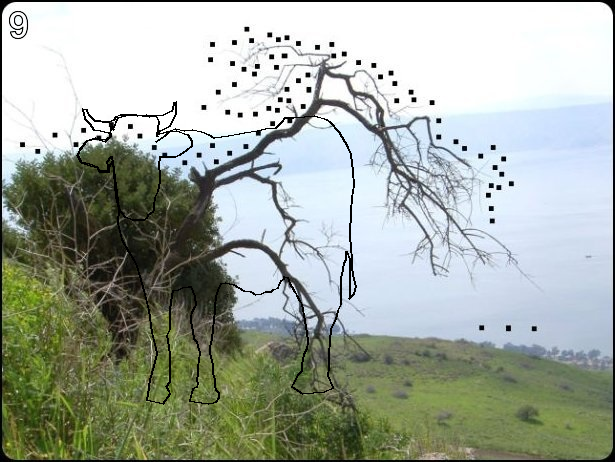
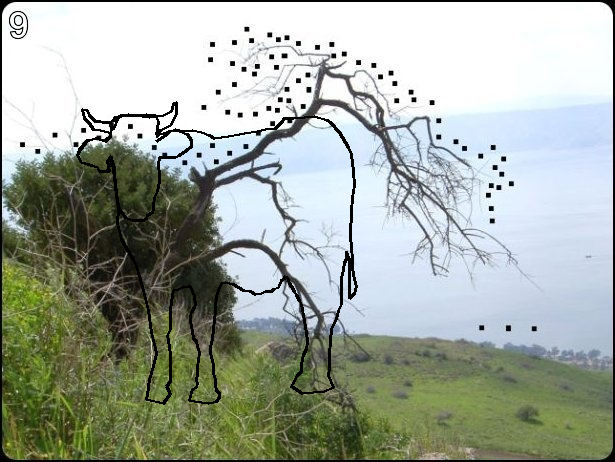
chsptet

diff --git a/chapter6/main.py b/chapter6/main.py
@@ -45,7 +45,7 @@ second = (
 
 img = Image.open('chapter6/ex6p4.jpg')
 draw = ImageDraw.Draw(img)
-draw.line(first, fill='black', width=2)
-draw.line(second, fill='black', width=2)
+draw.line(first, fill='black', width=3)
+draw.line(second, fill='black', width=3)
 img.save('result_ex6p4.png')
 img.show()
